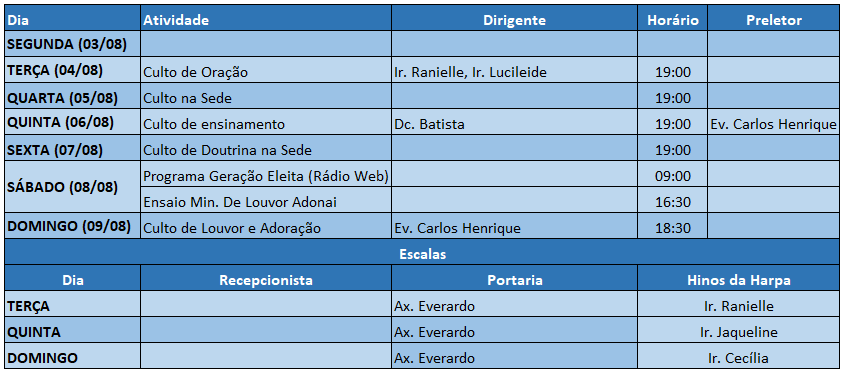
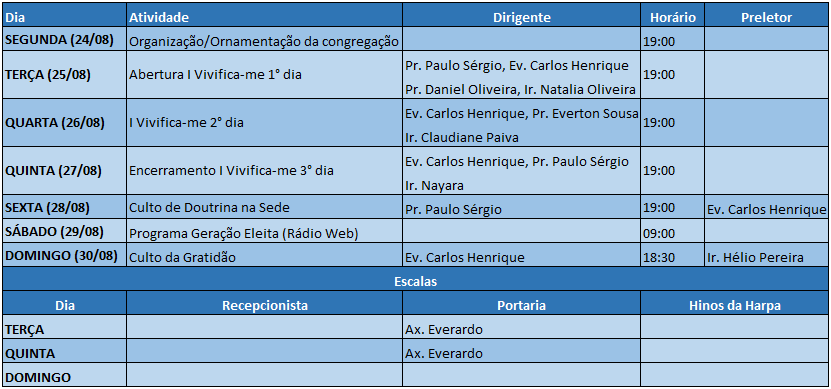
Atualizações
Atualizações Semanais

diff --git a/eventos.php b/eventos.php
@@ -116,7 +116,16 @@
         <!-- ***** EVENTOS ***** -->
 		<div class="colorlib-work">
 			<div class="container">
-                <div class="row"> 
+				<div class="row"> 
+                    <div class="col-md-6">
+                        <img src = "images/eventos/vivifica-me.jpg" alt="Culto Juventude Hebrom Maranguape" class="img-responsive img-eventos">
+                    </div>
+                    <div class="col-md-6">
+                        <h3>1° Vivifica-me</h3>
+                        <p class="card-text"><strong>Tema: Ezequiel 37.</strong> Evento será realizado no 4° Santuário do Ministério Hebrom (Parque São João) Durante os dias 25, 26 e 27 de Agosto. E será dirigido pelo Evangelista Carlos Henrique e sua esposa, Ir Ranielle. Também contará com a presença de outros pastores e ministérios de louvor. </p>
+                    </div>
+                </div>
+                <div class="row margin5"> 
                     <div class="col-md-6">
                         <img src = "images/eventos/culto-juventude.png" alt="Culto Juventude Hebrom Maranguape" class="img-responsive img-eventos">
                     </div>

diff --git a/programacao.php b/programacao.php
@@ -140,6 +140,7 @@
 				    </div>
                     <div class="col-md-4 text-center animate-box">
                         <a href="images/programacao/programacao-santuario4.PNG" download="Programação IIII Santuário.png">
+						
                             <div class="staff-entry icon-prog">
                                 <i class="icon-box-add"></i>
                                 <div class="desc">
